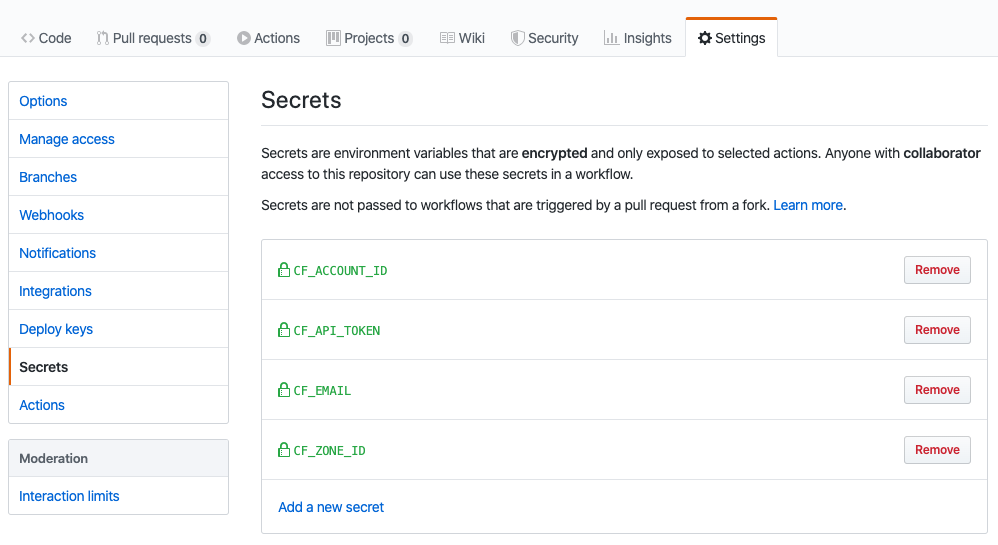
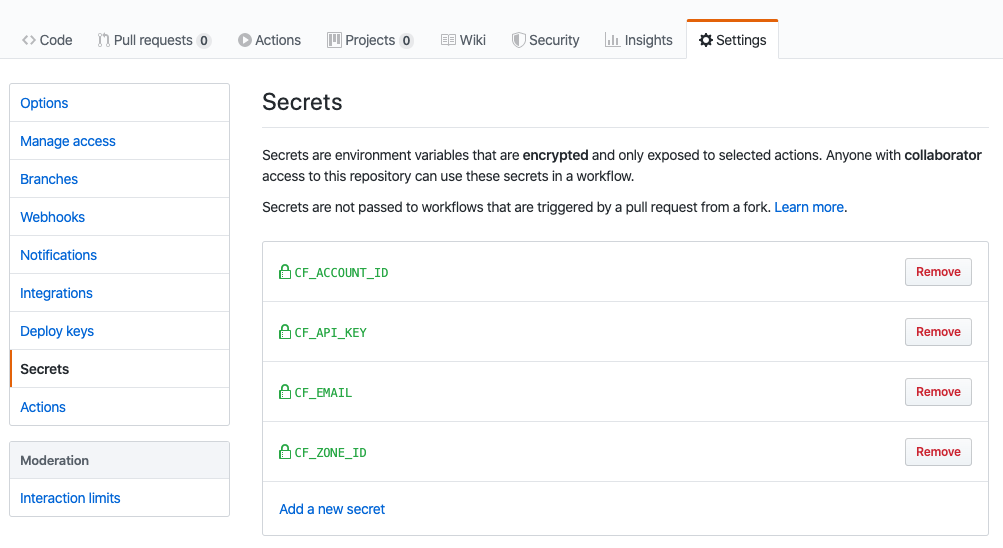
Use global api key instead of token

diff --git a/index.js b/index.js
@@ -3,5 +3,5 @@ addEventListener('fetch', event => {
 });
 
 async function handleEvent(event) {
-  return new Response('Hello, Cloudflare Worker!', { status: 200 })
+  return new Response('Hello, Cloudflare Worker!!', { status: 200 })
 }

diff --git a/doc/githubactions.md b/doc/githubactions.md
@@ -27,13 +27,13 @@ jobs:
           CF_EMAIL: ${{secrets.CF_EMAIL}}
           CF_ACCOUNT_ID: ${{secrets.CF_ACCOUNT_ID}}
           CF_ZONE_ID: ${{secrets.CF_ZONE_ID}}
-          CF_API_TOKEN: ${{secrets.CF_API_TOKEN}}
+          CF_API_KEY: ${{secrets.CF_API_KEY}}
 ```
 
 Where
 * `runs-on: ubuntu-latest` indicates the build environment will be ubuntu
 * `name: Deploy Cloudflare Worker` is the display name of your job
-* `steps` this job will checkout the code, install its dependencies with `npm install` and deploy the Cloudflare Worker using `npx wrangler publish`. You can see 4 environments variables: `CF_EMAIL`, `CF_ACCOUNT_ID`, `CF_ZONE_ID` and `CF_API_TOKEN`. Those will be set at a later step.
+* `steps` this job will checkout the code, install its dependencies with `npm install` and deploy the Cloudflare Worker using `npx wrangler publish`. You can see 4 environments variables: `CF_EMAIL`, `CF_ACCOUNT_ID`, `CF_ZONE_ID` and `CF_API_KEY`. Those will be set at a later step.
 
 [A complete example of a `.github/workflows/cloudflare.yml` file can be found here.](../.github/workflows/cloudflare.yml)
 
@@ -48,7 +48,7 @@ Add the following secrets:
 * `CF_EMAIL`: your Cloudflare email
 * `CF_ACCOUNT_ID`: your Cloudflare account ID
 * `CF_ZONE_ID`: your Cloudflare Zone ID
-* `CF_API_TOKEN`: your Cloudflare Global API Key
+* `CF_API_KEY`: your Cloudflare Global API Key
 
 Back to `.github/workflows/cloudflare.yml`, we remember setting those 4 environments variables:
 ```yaml
@@ -56,7 +56,7 @@ env:
   CF_EMAIL: ${{secrets.CF_EMAIL}}
   CF_ACCOUNT_ID: ${{secrets.CF_ACCOUNT_ID}}
   CF_ZONE_ID: ${{secrets.CF_ZONE_ID}}
-  CF_API_TOKEN: ${{secrets.CF_API_TOKEN}}
+  CF_API_KEY: ${{secrets.CF_API_KEY}}
 ```
 
 Where `${{secrets....}}` indicates GitHub Actions to fetch the value from the secrets.
